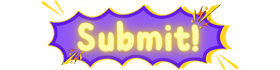
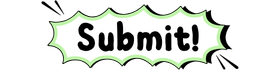
Made selecting cards more crisp, fixed some text, and did a few other QOL changes

diff --git a/src/App.jsx b/src/App.jsx
@@ -265,7 +265,6 @@ export default function App() {
   if (!currentRoom || !roomData) {
     return (
       <div className="min-h-screen comic-bg text-white flex items-center justify-center p-4">
-        {/* Constrained width wrapper so form elements never stretch full screen */}
         <div className="w-full max-w-md flex flex-col items-center">
           <div className="comic-panel p-8 rounded-3xl w-full flex flex-col gap-6 comic-glow-emerald">
             <div className="text-center">
@@ -355,7 +354,7 @@ export default function App() {
               onClick={handleStartGame}
               className="w-full bg-emerald-400 hover:bg-emerald-300 text-black font-black py-5 px-8 rounded-2xl border-4 border-black shadow-[4px_4px_0px_0px_rgba(0,0,0,1)] text-2xl transition-all active:translate-x-1 active:translate-y-1 active:shadow-none cursor-pointer"
             >
-              START GAME 🚀
+              START GAME 
             </button>
           ) : (
             <div className="text-center text-amber-300 font-bold bg-amber-950/80 border-4 border-amber-600 p-4 rounded-2xl shadow-[3px_3px_0px_0px_rgba(0,0,0,1)]">
@@ -400,7 +399,7 @@ export default function App() {
             }}
             className="bg-amber-400 hover:bg-amber-300 text-black font-black px-8 py-4 rounded-2xl border-4 border-black shadow-[4px_4px_0px_0px_rgba(0,0,0,1)] text-xl w-full transition-all active:translate-x-1 active:translate-y-1 active:shadow-none cursor-pointer"
           >
-            PLAY AGAIN 🔄
+            PLAY AGAIN
           </button>
         </div>
       </div>
@@ -445,24 +444,19 @@ export default function App() {
       {roomData.status === 'judging' ? (
         isCurrentJudge ? (
           <div className="w-full max-w-4xl flex flex-col items-center mb-8">
-            <h3 className="text-2xl font-black text-purple-300 mb-2 drop-shadow tracking-wide">SELECT THE WINNING COMBO!</h3>
-            <p className="text-zinc-300 text-sm font-bold mb-6">All submissions are in. Click any card combination below to award the point:</p>
+            <h3 className="text-2xl font-black text-purple-300 mb-2 drop-shadow tracking-wide">SELECT THE WINNER!</h3>
+            <p className="text-zinc-300 text-sm font-bold mb-6">All submissions are in. Click any card below to award the point:</p>
             <div className="flex flex-wrap gap-8 justify-center">
               {Object.entries(roomData.submissions || {}).map(([playerKey, sub]) => (
                 <div 
                   key={playerKey} 
                   onClick={() => handlePickWinner(playerKey)}
-                  className="comic-panel p-4 rounded-2xl cursor-pointer transition-all flex flex-col gap-2 max-w-xs hover:border-emerald-400 hover:scale-105 active:scale-95 group"
+                  className="cursor-pointer flex flex-col gap-2 max-w-xs group"
                 >
                   <div className="flex flex-col gap-2">
                     {sub.cards?.map((cardObj, i) => (
-                      <div key={i} className="relative">
-                        {sub.cards.length > 1 && (
-                          <span className="absolute -top-2 -left-2 bg-purple-600 text-white font-black w-6 h-6 rounded-full border-2 border-black flex items-center justify-center text-xs shadow z-10">
-                            {i + 1}
-                          </span>
-                        )}
-                        <PurpleCard text={cardObj.text} jp={cardObj.jp} selected={false} />
+                      <div key={i} className="transition-transform duration-200 hover:filter hover:drop-shadow-[0_0_22px_rgba(255,255,255,0.9)] hover:drop-shadow-[0_0_8px_rgba(255,255,255,1)]">
+                        <PurpleCard text={cardObj.text} jp={cardObj.jp} selected={false} noHover={true} />
                       </div>
                     ))}
                   </div>
@@ -554,25 +548,24 @@ export default function App() {
   );
 }
 
-// --- COMIC-STYLED SUBMIT BUTTON COMPONENT ---
+// --- COMIC-STYLED IMAGE SUBMIT BUTTON COMPONENT ---
 function SubmitButton({ onClick, disabled, label = "SUBMIT CARD!" }) {
   return (
     <button
       type="button"
       onClick={onClick}
       disabled={disabled}
-      className={`px-12 py-5 text-2xl sm:text-3xl font-black rounded-2xl border-4 border-black shadow-[6px_6px_0px_0px_rgba(0,0,0,1)] transition-all duration-150 select-none ${
+      className={`group relative border-none bg-transparent p-0 transition-transform duration-150 select-none ${
         disabled
-          ? 'bg-zinc-700 text-zinc-400 opacity-50 cursor-not-allowed shadow-none'
-          : 'bg-emerald-400 hover:bg-emerald-300 active:translate-x-1.5 active:translate-y-1.5 active:shadow-none text-black cursor-pointer animate-pulse'
+          ? 'opacity-50 cursor-not-allowed grayscale'
+          : 'hover:scale-105 active:scale-95 cursor-pointer animate-bounce'
       }`}
-      style={{
-        fontFamily: "'Childos Arabic', system-ui, sans-serif",
-        WebkitTextStroke: '1px #ffffff',
-        paintOrder: 'stroke fill',
-      }}
     >
-      {label}
+      <img 
+        src="/submit-card-button.png" 
+        alt={label} 
+        className="w-48 sm:w-60 h-auto drop-shadow-[6px_6px_0px_rgba(0,0,0,1)] transition-all"
+      />
     </button>
   );
 }

diff --git a/src/components/Cards.jsx b/src/components/Cards.jsx
@@ -29,7 +29,7 @@ export function GreenCard({ text }) {
 
   return (
     <div 
-      className="card relative flex flex-col justify-center items-center select-none shrink-0 rounded-3xl shadow-xl overflow-hidden p-6"
+      className="card relative flex flex-col justify-center items-center select-none shrink-0 rounded-3xl shadow-xl overflow-hidden p-6 box-border"
       style={{ 
         width: '440px', 
         minWidth: '440px',
@@ -78,14 +78,16 @@ export function CardBack({ onClick, isSelected }) {
         height: '208px',
         colorScheme: 'light'
       }}
-      className={`cursor-pointer transition-all duration-200 select-none rounded-2xl shadow-lg shrink-0 ${
-        isSelected ? 'ring-4 ring-emerald-400 scale-105 shadow-2xl' : 'hover:scale-105'
+      className={`cursor-pointer transition-transform duration-200 select-none rounded-2xl shrink-0 ${
+        isSelected 
+          ? 'scale-105 filter drop-shadow-[0_0_20px_rgba(255,255,255,0.9)] drop-shadow-[0_0_8px_rgba(255,255,255,1)]' 
+          : 'hover:scale-105 shadow-lg'
       }`}
     />
   );
 }
 
-export function PurpleCard({ text, jp, selected, selectionIndex, onClick }) {
+export function PurpleCard({ text, jp, selected, onClick, noHover = false }) {
   const [showJp, setShowJp] = useState(false);
   const bgPath = `${import.meta.env.BASE_URL}purple-card-bg.png`;
 
@@ -112,10 +114,12 @@ export function PurpleCard({ text, jp, selected, selectionIndex, onClick }) {
         position: 'relative',
         colorScheme: 'light'
       }}
-      className={`card cursor-pointer transition-all duration-200 select-none rounded-2xl shrink-0 p-6 ${
+      className={`card cursor-pointer transition-transform duration-200 select-none shrink-0 p-6 box-border outline-none focus:outline-none focus:ring-0 shadow-lg ${
         selected 
-          ? 'ring-4 ring-emerald-400 scale-105 shadow-[0_0_30px_rgba(16,185,129,0.6)]' 
-          : 'hover:scale-105 shadow-lg'
+          ? `filter drop-shadow-[0_0_22px_rgba(255,255,255,0.9)] drop-shadow-[0_0_8px_rgba(255,255,255,1)] z-20${noHover ? '' : ' scale-105'}` 
+          : noHover 
+            ? '' 
+            : 'hover:scale-105'
       }`}
     >
       <style>{`
@@ -125,19 +129,8 @@ export function PurpleCard({ text, jp, selected, selectionIndex, onClick }) {
         }
       `}</style>
 
-      {/* Selection Order Badge (if selected in multi-pick) */}
-      {selected && selectionIndex !== undefined && (
-        <div 
-          style={{ position: 'absolute', top: '10px', left: '10px' }}
-          className="z-20 bg-emerald-400 text-black font-black w-8 h-8 rounded-full border-3 border-black flex items-center justify-center text-base shadow-lg animate-bounce"
-          style={{ fontFamily: "'Childos Arabic', system-ui, sans-serif" }}
-        >
-          {selectionIndex + 1}
-        </div>
-      )}
-
-      {/* Top Bar: Scaled-up JP/EN Toggle Badge */}
-      <div style={{ position: 'absolute', top: '10px', right: '10px' }} className="z-20 font-sans">
+      {/* Top Bar: JP/EN Toggle Badge */}
+      <div style={{ position: 'absolute', top: '10px', right: '10px' }} className="z-30 font-sans">
         {jp && (
           <button
             type="button"

diff --git a/src/index.css b/src/index.css
@@ -8,15 +8,18 @@
   font-weight: 900;
   font-style: normal;
   font-display: swap;
+  /* ONLY apply Childos to A-Z, a-z, and spaces; fallback for numbers & punctuation */
+  unicode-range: U+0020, U+0041-005A, U+0061-007A;
 }
 
-/* Force full-screen charcoal background on root */
+/* Global font stack: Childos for letters, system-ui for numbers/punctuation */
 html, body, #root {
   min-height: 100vh;
   background-color: #0d0d12;
   color: #ffffff;
   margin: 0;
   padding: 0;
+  font-family: 'Childos Arabic', system-ui, -apple-system, sans-serif;
 }
 
 .font-childos {
@@ -41,8 +44,8 @@ html, body, #root {
 
 /* Pulsing Ambient Glow Animations */
 @keyframes emeraldGlow {
-  0%, 100% { box-shadow: 0 0 30px 2px rgba(16, 185, 129, 0.3); }
-  50% { box-shadow: 0 0 55px 6px rgba(16, 185, 129, 0.6); }
+  0%, 100% { box-shadow: 0 0 30px 2px rgba(191, 244, 169, 0.35); }
+  50% { box-shadow: 0 0 55px 6px rgba(191, 244, 169, 0.65); }
 }
 
 @keyframes purpleGlow {
